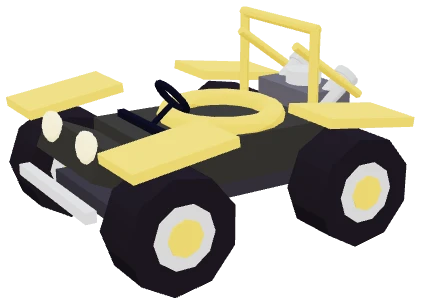
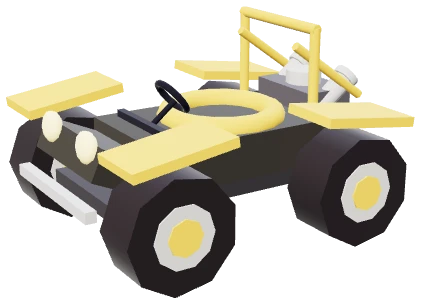
game: the Kart screen's Classic and Buggy pictures in the racers' PBR material, same light and shot (kartIcons.ts), 22 pictures re-rendered

diff --git a/src/game/kartIcons.ts b/src/game/kartIcons.ts
@@ -2,21 +2,36 @@
 // selector"): each kart alone, rendered from our own 3D kart models the race draws (the body and wheels of a
 // racer built from parts, rigged.ts kartOnly; Classic and Buggy code-built, bodies.ts), three-quarters from
 // the front and its left, nose to the left, on a clear background — as Mario Kart World's vehicle select
-// shows each vehicle rendered on its tile. A dev tool, never imported by the game: scripts/headless/
-// kart-icons.mjs runs it in the dev server's page (where the model files load as they do in a race) and
-// writes public/art/karts/<name>.webp. Its own renderer (alpha, kept buffer): a still, once.
+// shows each vehicle rendered on its tile. Every kart in the racers' own PBR material (rigged.ts
+// riggedMaterial: the same roughness, rim and lights), Classic and Buggy with their vertex colors in place of
+// the atlas (27 Sept 2026: in the flat toon material they read as cartoons beside the model renders). A dev
+// tool, never imported by the game: scripts/headless/kart-icons.mjs runs it in the dev server's page (where
+// the model files load as they do in a race) and writes public/art/karts/<name>.webp. Its own renderer
+// (alpha, kept buffer): a still, once.
 import {
   ACESFilmicToneMapping, AmbientLight, Box3, DirectionalLight, HemisphereLight, Mesh, PerspectiveCamera, PMREMGenerator, Scene,
   SRGBColorSpace, Vector3, WebGLRenderer, type Material, type Object3D,
 } from 'three';
 import { RoomEnvironment } from 'three/examples/jsm/environments/RoomEnvironment.js';
-import { PAINTS, RACER_MODELS, racerGeometry, vertexToon } from '../art-pipeline/index.ts';
+import { PAINTS, RACER_MODELS, racerGeometry } from '../art-pipeline/index.ts';
+import { riggedMaterial } from '../art-pipeline/rigged.ts';
 import { KARTS } from '../kart-controller/karts.ts';
 
 /** the picture's size (px) and the shot: yaw from dead ahead toward the kart's left, the look-down angle, the lens */
 export const ICON = Object.freeze({ w: 640, h: 400, yaw: (58 * Math.PI) / 180, pitch: (17 * Math.PI) / 180, fov: 24, margin: 0.04 });
 
 const RACERS = ['pip', 'momo', 'nova', 'juniper', 'otto', 'sprocket', 'boulder', 'gus'];
+
+/** The twins' bodies in the racers' own PBR material, their vertex colors in place of the atlas (one for every twin picture). */
+let twinMaterial: Material | null = null;
+function twinBody(): Material {
+  if (!twinMaterial) {
+    const m = riggedMaterial(null);
+    m.vertexColors = true;
+    twinMaterial = m;
+  }
+  return twinMaterial;
+}
 
 /** Every picture the Kart screen shows, by file name (ui-hud data/karts.ts kartArt): the karts in their owners' colors, the owners' paints, and the twins in each racer's colors and each paint. */
 export function iconJobs(): { name: string; build: () => Object3D | null }[] {
@@ -29,7 +44,7 @@ export function iconJobs(): { name: string; build: () => Object3D | null }[] {
   };
   const twin = (body: 'classic' | 'buggy', racer: string, paint?: string) => () => {
     const g = racerGeometry(racer, { body, ...(paint ? { paint } : {}) }, false);
-    return g ? new Mesh(g.body, vertexToon()) : null;
+    return g ? new Mesh(g.body, twinBody()) : null;
   };
   for (const k of KARTS) {
     if (k.owner) {
@@ -114,6 +129,8 @@ export async function renderKartIcons(): Promise<Record<string, string | null>> 
     scene.remove(obj);
   }
   pmrem.dispose();
+  twinMaterial?.dispose();
+  twinMaterial = null;
   renderer.dispose();
   return out;
 }

diff --git a/docs/sops/art-pipeline.md b/docs/sops/art-pipeline.md
@@ -100,6 +100,7 @@ _(append dated one-liners as they are made)_
 - 2026-09-26 (the Cup and Track screens, ui-hud SOP and design §12): **Track pictures** (`public/art/tracks/<track>.webp`, six, 960 x 540, 426 KB): each track's own establishing shot from its course intro (the high sweep toward its landmark), shot silently in the dev page with the menus hidden by `scripts/headless/track-cards.mjs` at the intro seconds in its `CHOSEN` list (`--try` shoots several to choose from). Re-run after a track's look or its intro camera changes.
 - 2026-09-26 (Adam, after playing tonight: "The water still looks solid and blue and does not look like it has waves"): **waves at every distance, in the shader alone (no new mesh, draw or pass).** Why it read solid: the Gerstner swell is metres long and fades out 55-90 m from the lens, the chase camera meets the sea 30-300 m off at a grazing angle, and there the only detail was two 6-10 m noise bumps and white "sparkle" contour lines, all mixed toward one pale horizon colour by Fresnel. Research (what MKW does, from the game and its makers): Nintendo, Ask the Developer Vol. 18 ch. 3 (nintendo.com/en-za/News/2025/May/Ask-the-Developer-Vol-18-Mario-Kart-World-Chapter-3-2832747.html): "a lot of effort into the wave graphics", "white foam, or whitecaps ... on the crests", the shoal floor through clear water; Digital Foundry via Nintendo Life (nintendolife.com/news/2025/04/digital-foundry-digs-deep-into-mario-kart-worlds-tech-and-specs): "the water, which looks absolutely beautiful", no cube map on water (likely planar reflections); footage watched with Gemini Flash (scripts/headless/watch.mjs) and muted stills (frames.mjs): Koopa Troopa Beach (youtube.com/watch?v=ScpnkDSB2Nw, youtube.com/watch?v=2ZorPrm7TYQ) and Salty Salty Speedway (youtube.com/watch?v=_tn5PV1i3Tk): near, small bright flecks on the ripple tops that twinkle; middle, a ripple pattern of lighter crests over darker troughs, the sky in the facets and "a concentrated band of shimmering white sun glints aligned toward the light source"; far, the pattern compressed into horizontal bands under a broad sheen; foam lines at shores, walls, posts and wakes. Built (surfaces.ts WATER_FRAG, new waterRipples.ts): four scrolling detail-normal layers (23, 8.5, 3.1 and 1.15 m tiles, each turned its own way, drifting 0.55-0.9 m/s: slower than real waves of those lengths so the sea reads calm, at least a third of each layer's finest wavelength in 0.5 s so a still pair differs) sampled in world space from one 256² tiling slope-and-height map made in code at load (a sine sum on whole-number wave vectors, so it tiles; mipmapped, 8x anisotropic: the standard route, three's own examples/jsm/objects/Water.js samples one normal map four times); the finest layers fade out by distance (14-38 m, 60-150 m, 260-520 m) where mipmaps would flatten them anyway. The swell's normal tipped by the ripples feeds: crest lift and trough deepening (swell height and ripple height), a sun-facing shade, the sky reflected through Schlick's Fresnel, capped at SEA_LOOK.reflectMax 0.62 so the far sea stays blue instead of turning into the pale horizon (the painted sky's own PMREM map in the PBR look, `uSkyEnv` with three's cubeUV defines for PBR.envSize; this sea's horizon-to-zenith gradient in the toon look; a facet whose reflection looks down sees the deep tone, never the map's land shade), and a Blinn-Phong sun glint whose lobe widens with the normal's screen-space variance (Kaplanyan et al. 2016 / Tokuyoshi and Kaplanyan 2019, dl.acm.org/doi/10.1145/3306131.3317026, as Filament and HDRP do) and with distance, so near glints are flecks and far ones a sheen, never a crawl (checked: the change between two frames 1/60 s apart is 1-2 % of the change over 0.5 s in the far water, where shimmer would be near 100 %). Where we differ from MKW on purpose: (1) no planar reflection (a second scene render; the painted sky's map is one texture read), so boats and cliffs are not mirrored; (2) the glint comes from the sun's bearing but never higher than SEA_LOOK.glintElevation (26°): our suns stand 45-60° up, whose true reflection lies under the chase camera, so the glitter band now runs down the middle distance toward the sun as MKW's does (the sky's own reflection keeps the true sun). Also: whitecaps are lacy (on the ripple crests of the swell's highest crests), not the milky blob that sat where four swells peaked together; foam hides what is under it (alpha); the Fresnel share is not seen through; the shader ends with three's tone mapping and colour space chunks, so the Low tier (drawn straight to the screen) gets the same colours as the post chain (it had been writing linear colour to an sRGB screen). The Low tier keeps the ripples, sky and glints on its opaque sea. Kept as fixed before: see-through shallows and their curve, the depth copy, shore and post foam, the swell, boats riding it, the tide. Checked with scripts/headless/sea-look.mjs (the same chase, shore, boat, pier and intro cameras before and after, each held for a pair 0.5 s apart) on Harbor Loop and Boardwalk Nights (the night sea now glitters violet and magenta off the neon sky); cost measured in one page against the base commit's own shaders swapped in (1080p, frames timed through a 1-pixel readPixels, 16 alternating cycles on a shared GPU): the new sea costs what the old one did (chase 10.4 vs 10.4 ms and 11.0 vs 11.0 ms; boat 10.6 vs 10.7; overhead 11.1 vs 11.2 ms medians; the whole sea is 1-2 ms of those frames); no new draw call; 0 NaN or black frames (nan-scan.mjs, both sea tracks).
 - 2026-09-26 (Adam: the rain "does not splash when it hits the ground"; with the splashes, track-builder SOP): **the storm wets the road.** Mario Kart World's rain leaves the road "darkened with a high-gloss" sheen (two Gemini Flash watches agree, track-builder SOP); a wet surface is darker (water fills its pores) and smoother (a film of water over the grain): Sébastien Lagarde, "Water drop 3b: physically based wet surfaces" (seblagarde.wordpress.com/2013/04/14/water-drop-3b-physically-based-wet-surfaces/). surfaces.ts `ROAD_WET` (one shared number, 0 everywhere but Meadow's storm, where main.ts sets it each frame from the stage's `wet`, the rain's own density) darkens the PBR road's albedo by WET_ROAD.darken 0.3 and brings its roughness toward WET_ROAD.roughness 0.5, after the road's own grain and paint set theirs. 0.22 was tried first and put a white, glittering blaze of the sun across the road ahead (the grain's relief at mirror gloss): wet asphalt under cloud reads as a soft sheen, not a mirror. No new material, draw or texture; the toon look is untouched (the patch is PBR only).
+- 2026-09-27 (last night's checks: the Kart screen's Classic and Buggy pictures "render as flat code-built toon bodies next to the other karts' model renders"): **the twins' pictures in the racers' own PBR material** (game/kartIcons.ts `twinBody`: rigged.ts `riggedMaterial` with the body's vertex colors in place of the atlas: the same roughness 0.82, rim and world lights as every signature kart's picture, in the same scene, lights and three-quarter shot); they were drawn in `vertexToon()`, the flat three-step toon. Re-ran scripts/headless/kart-icons.mjs: the 22 Classic and Buggy pictures changed, the 11 signature karts' came out byte for byte the same. Their shapes stay the code-built bodies the race draws (bodies.ts). Noted, not changed here: the race and the Racer and Kart screens' 3D hero still draw Classic and Buggy bodies in `vertexToon()` (kart.ts buildRacerMesh), toon beside PBR karts.
 
 ## Lessons (repair loop writes here)
 _(error → cause → fix → rule; newest first)_
